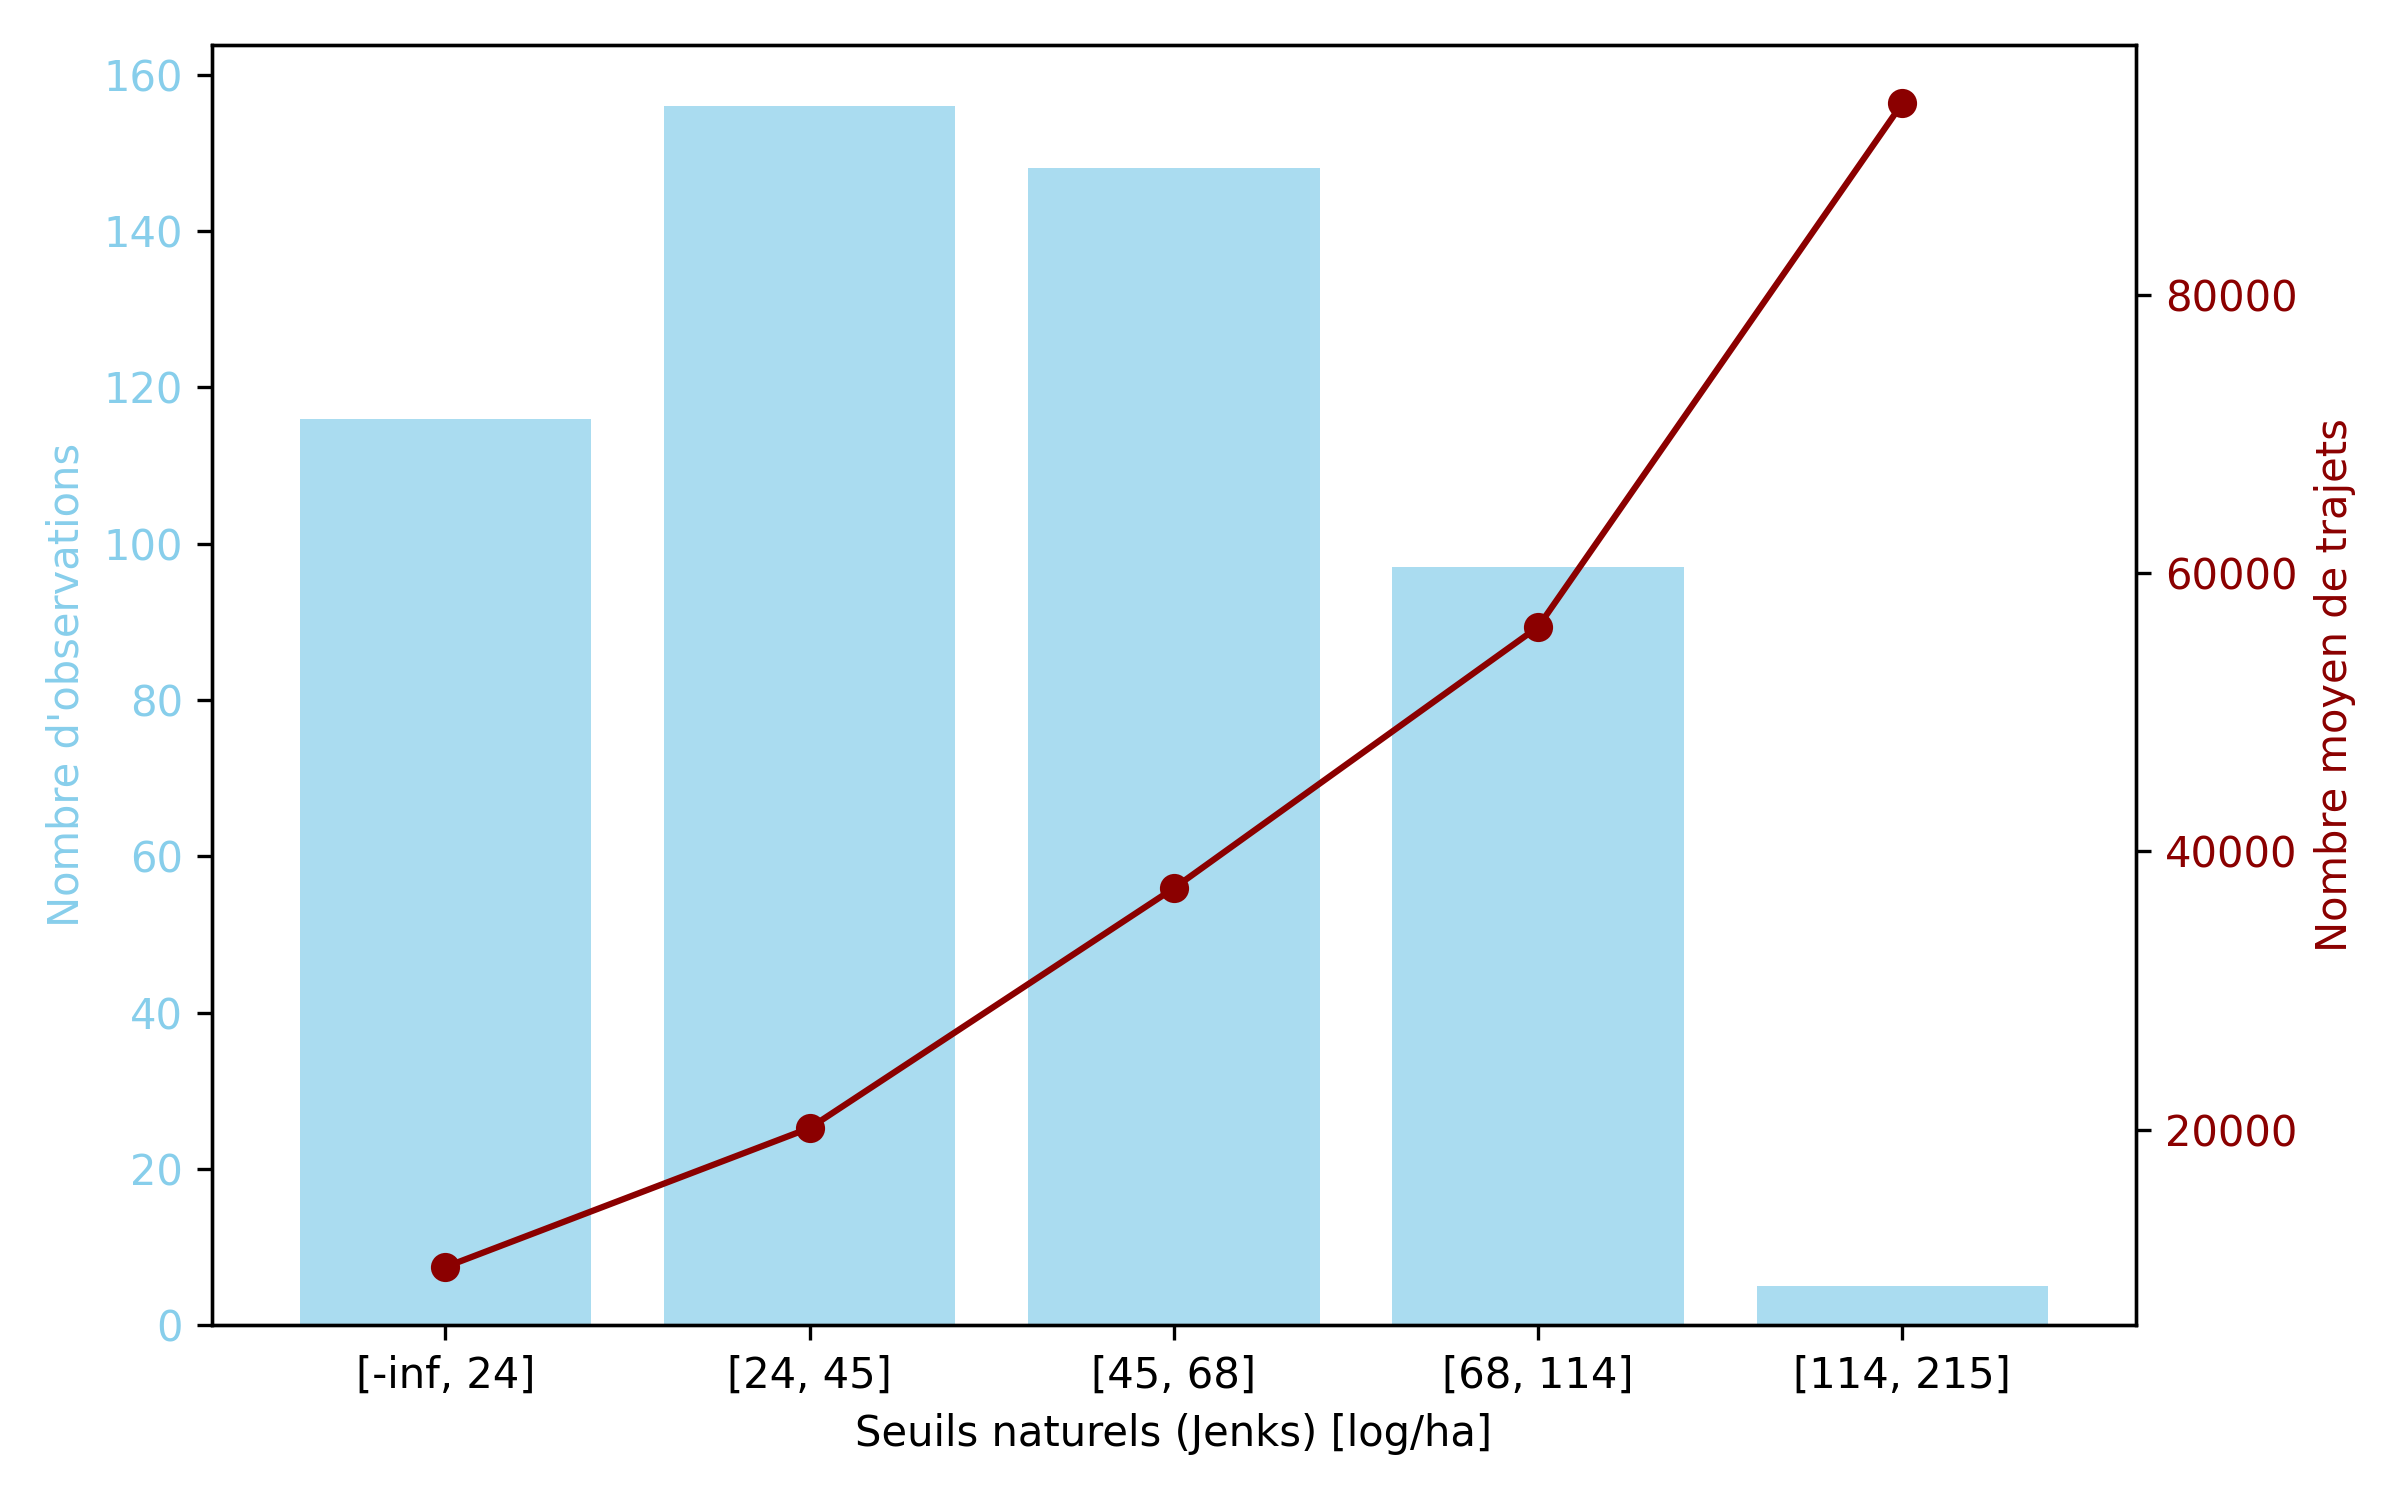
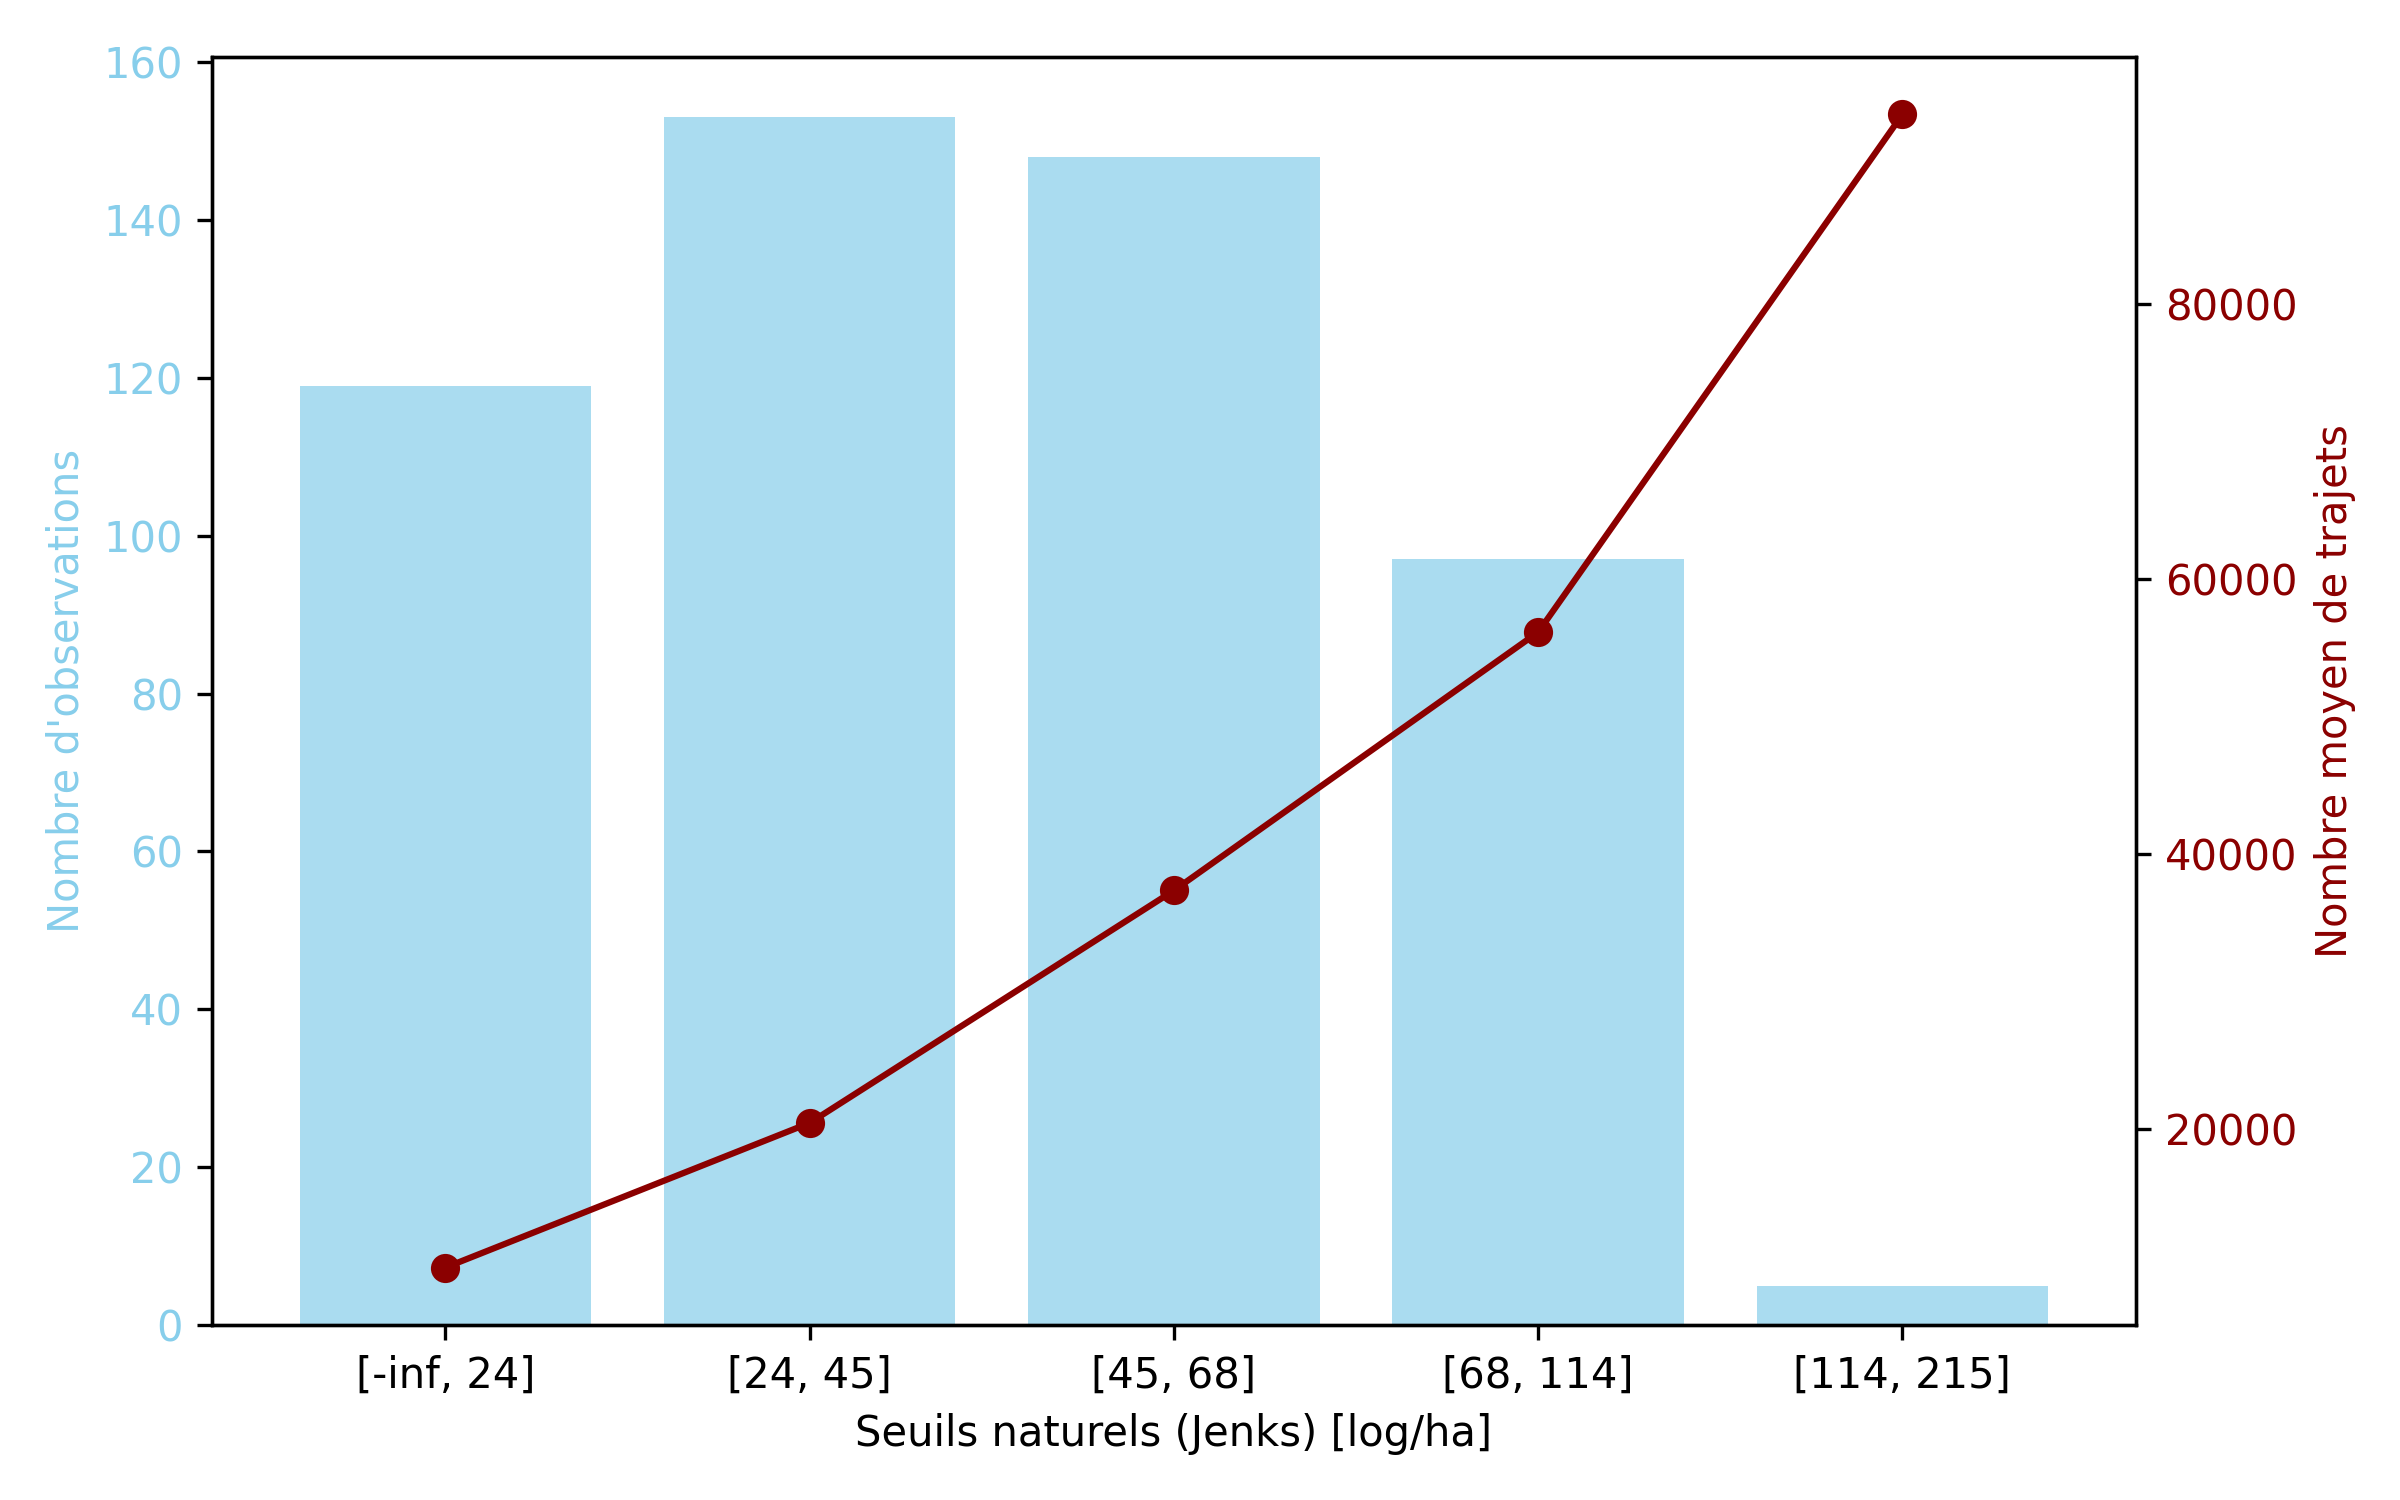
fix manual bins

diff --git a/scripts/visuals/generate_visuals.py b/scripts/visuals/generate_visuals.py
@@ -293,7 +293,7 @@ def main():
 
     analyser_relation(hexagones, "nb_ec_supp", "nb_trajets", f"{season}/nb_ec_supp_vs_trajets",
                       correlation_csv=f"../../output/{season}/correlations.csv", decimals=0,
-                      manual_bins=[0, 1, 2, 3,4, 5, 6])
+                      manual_bins=[0, 1, 2, 3, 6])
 
     analyser_zonage(hexagones, output_path=f"../../output/{season}/zonage.png")
 
